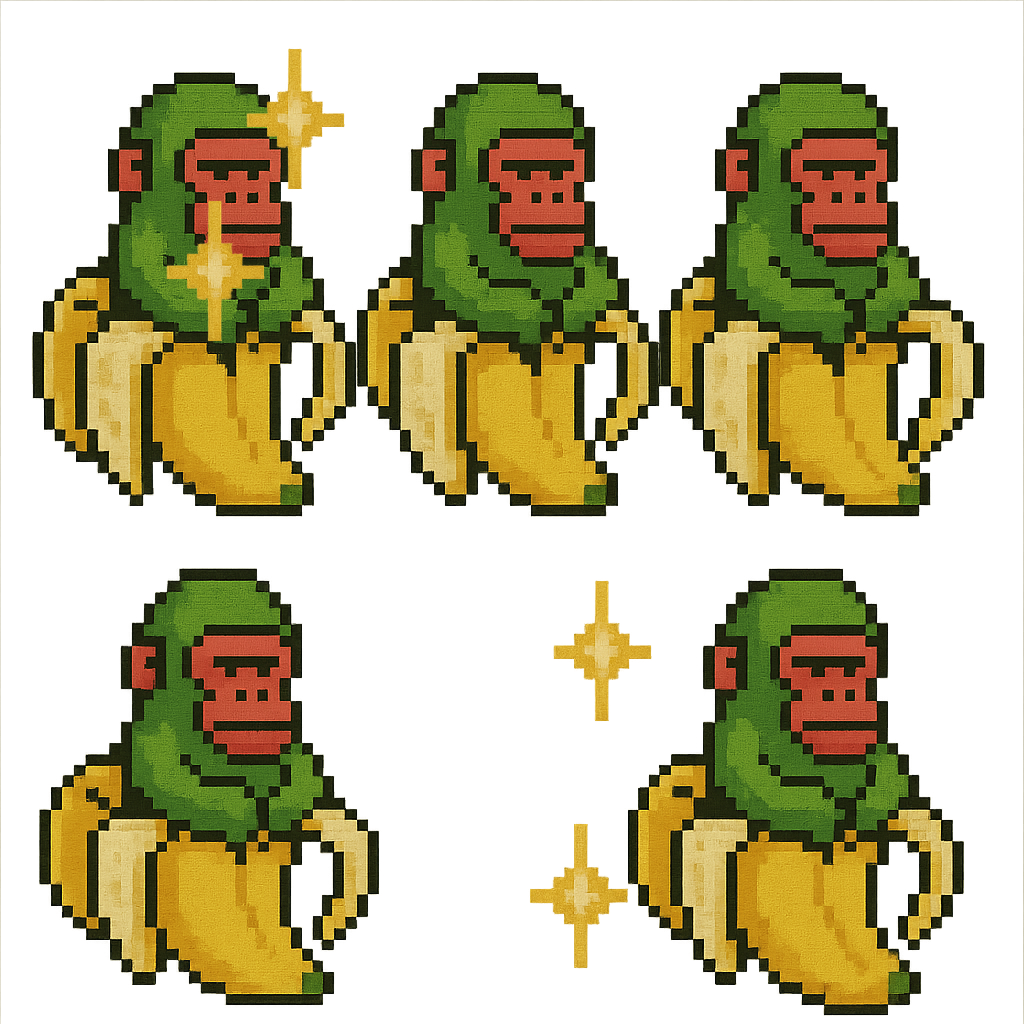
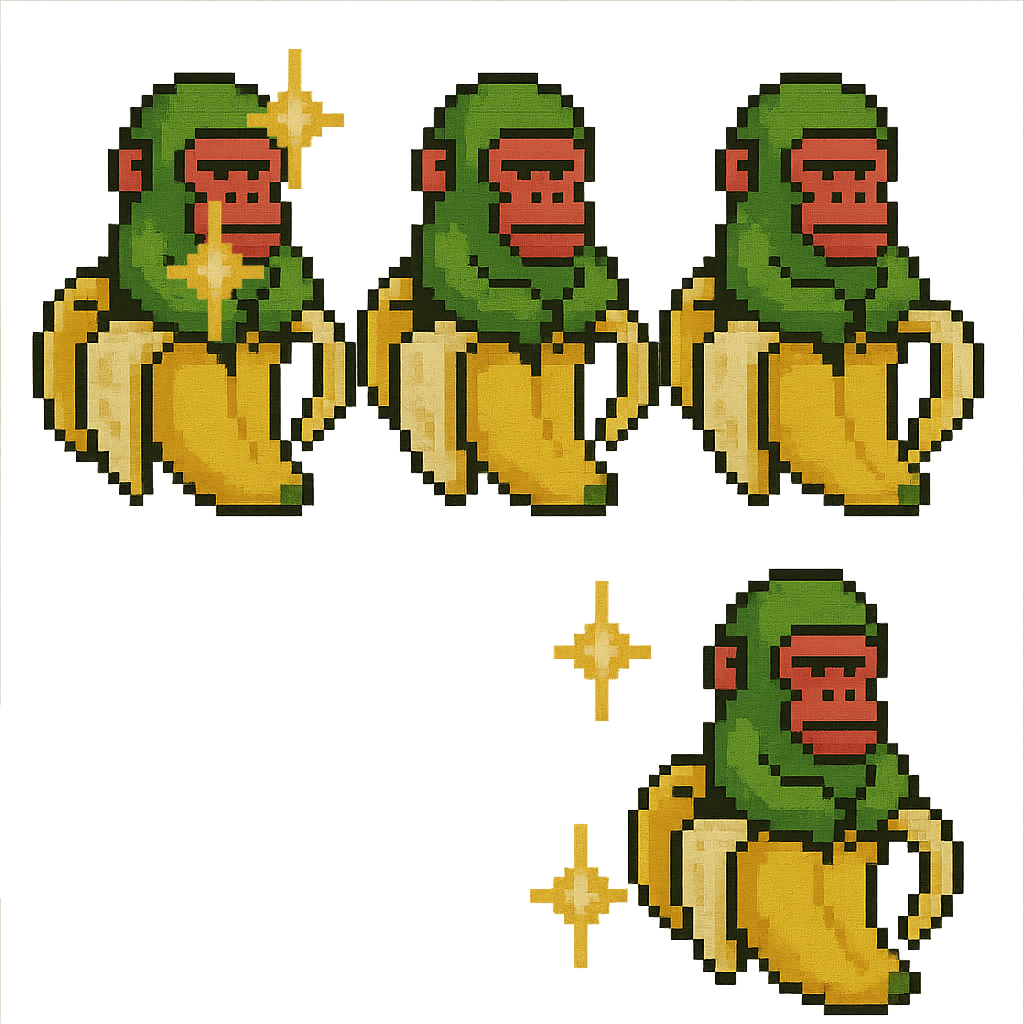
Title Screen Básica Adicionada
Title Screen Básica Adicionada

Changed region(s): [[0.0312, 0.5312, 0.375, 1.0]]

diff --git a/main.c b/main.c
@@ -31,6 +31,8 @@
 #include <time.h>
 #define BASE_WIDTH 1280.0f
 #define BASE_HEIGHT 720.0f
+#define ROWS 5
+#define COLUMNS 9
 
 Vector2 ScaleTo720p(float x, float y, int screenWidth, int screenHeight) {
 	float baseWidth = 1280.0f;
@@ -73,14 +75,14 @@ int main(void)
 	buttonTile = LoadTexture("buttontilemetallic.png");
 	frame = LoadTexture("frame2.png");
 	pointsIcon = LoadTexture("Points.png");
-	const char* nomes[8] = {
+	const char* nomes[5] = {
 		"chimpanzini", "tralalero", "sahur", "lirili",
 		"bombardini", "trippitroppa", "capuccino", "patapim"
 	};
 
 	char path[100];
 	for(int t = 0; t < 8; t++) {
-		for (int i = 0; i < 8; i++) {
+		for (int i = 0; i < 5; i++) {
 			sprintf(path, "Characters/%s%d.png", nomes[i], t);
 			CharacterTextures[i][t] = LoadTexture(path);
 		}
@@ -90,24 +92,20 @@ int main(void)
 	CharacterFrames[2] = LoadTexture("Characters/sahurframe.png");
 	CharacterFrames[3] = LoadTexture("Characters/liriliframe.png");
 	CharacterFrames[4] = LoadTexture("Characters/bombardiniframe.png");
-	CharacterFrames[5] = LoadTexture("Characters/trippitroppaframe.png");
-	CharacterFrames[6] = LoadTexture("Characters/capuccinoframe.png");
-	CharacterFrames[7] = LoadTexture("Characters/patapimframe.png");
+
 
 	Projectile = LoadTexture("Characters/projectile.png");
 	Bomb = LoadTexture("Characters/bomb.png");
 
 
 
-	int Tiles[7][9], Frame[8], CharacterCost[8];
+	int Tiles[ROWS][COLUMNS], Frame[5], CharacterCost[5];
 	CharacterCost[0] = 50;
 	CharacterCost[1] = 100;
 	CharacterCost[2] = 150;
 	CharacterCost[3] = 50;
 	CharacterCost[4] = 25;
-	CharacterCost[5] = 50;
-	CharacterCost[6] = 50;
-	CharacterCost[7] = 50;
+
 	int MousePick = 1, Points = 150, Damage = 10, CharacterHP = 50,
 	    EnemieHP = 110;
 	char PointsT[10], CostChar[10], RandomT[10];
@@ -152,14 +150,14 @@ int main(void)
 		bool ready;
 		bool exists;
 	} Bombardini;
-	Chimpanzini chimpanzini[7][9] = { 0, 0, 0, false, false };
-	Tralalero tralalero[7][9] = { 0, 0, 0, 0, 0, false, false, false };
-	Sahur sahur[7][9] = { 0, 0, false, 0,false, false };
-	Lirili lirili[7][9] = { 0, 0, false,};
-	Bombardini bombardini[7][9] = { 0, 0, 0, 0, 0, false, false, false};
+	Chimpanzini chimpanzini[ROWS][COLUMNS] = { 0, 0, 0, false, false };
+	Tralalero tralalero[ROWS][COLUMNS] = { 0, 0, 0, 0, 0, false, false, false };
+	Sahur sahur[ROWS][COLUMNS] = { 0, 0, false, 0,false, false };
+	Lirili lirili[ROWS][COLUMNS] = { 0, 0, false,};
+	Bombardini bombardini[ROWS][COLUMNS] = { 0, 0, 0, 0, 0, false, false, false};
 
 	int FrameCounterPisc = 0, pisc = 0,FrameCounterIdle = 0;
-	bool PointsBag = false, Randomize = true, piscBool = true;
+	bool PointsBag = false, Randomize = true, piscBool = true, titleScreen = true, gameOver = false;
 	for(int r = 0; r < 7; r++)
 	{
 		for(int c = 0; c < 9; c++)
@@ -181,10 +179,14 @@ int main(void)
 		Frame[f-16] = f;
 
 	}
-
+int baseFontSize = 40;
+		int fontSize = (int)(baseFontSize * ((float)screenHeight / 720.0f));
 	// Main game loop
 	while (!WindowShouldClose())    // Detect window close button or ESC key
 	{
+        Vector2 mouse = GetMousePosition(), Origin = { 0, 0 };
+   
+        
 		FrameCounterIdle++;
 		if (FrameCounterIdle == 3600) {
 			FrameCounterIdle = 0;
@@ -215,20 +217,38 @@ int main(void)
 		// Update
 		//----------------------------------------------------------------------------------
 		// TODO: Update your variables here
+		// TODO: Update your variables here
 		//----------------------------------------------------------------------------------
 
 		// Draw
 		//----------------------------------------------------------------------------------
 		BeginDrawing();
-		Vector2 mouse = GetMousePosition(), Origin = { 0, 0 };
+        ClearBackground(RAYWHITE);
+        if(!gameOver){
+		 if(titleScreen){
+          Rectangle playDest = ScaleRectTo720p( screenWidth/2.5, screenHeight/2, fontSize*5, fontSize, screenWidth, screenHeight);
+		DrawText("Todos vs. Jacques", screenWidth/3, screenHeight/3, fontSize, BLACK);
+	DrawText("Play Game", screenWidth/2.5, screenHeight/2, fontSize, BLACK);
+
+		if (CheckCollisionPointRec(mouse, playDest))
+		{
+
+
+			DrawRectangleRec(playDest, ColorAlpha(YELLOW, 0.3f));
+			SetMouseCursor(MOUSE_CURSOR_POINTING_HAND);
+			if(IsMouseButtonPressed(MOUSE_LEFT_BUTTON)){
+                titleScreen = false;
+                
+            }
+    }
+    }else{
 		int offsetX = 10;
 		int offsetY = 10;
 		Vector2 textPoints = ScaleTo720p(110, 50, screenWidth, screenHeight);
 		float spacing = 10;
 		float projectileSpeed = 400.0f;
 		float bombSpeed = 1200.0f;
-		int baseFontSize = 40;
-		int fontSize = (int)(baseFontSize * ((float)screenHeight / 720.0f));
+		
 
 		sprintf(PointsT, "%d", Points);
 
@@ -269,8 +289,8 @@ int main(void)
 		}
 
 		DrawTexturePro(pointsIcon, pointsCountSource, pointsCountDest, Origin, 0.0f, WHITE);
-		ClearBackground(RAYWHITE);
-		for (int f = 0; f < 8; f++) {
+		
+		for (int f = 0; f < 5; f++) {
 			Vector2 textValue = ScaleTo720p(310 + (f * 77), 117, screenWidth, screenHeight);
 
 			Rectangle frameDest = ScaleRectTo720p(300 + (f * 77), 20, 78, 96, screenWidth, screenHeight);
@@ -302,11 +322,11 @@ int main(void)
 		}
 
 
-		for (int r = 0; r < 7; r++)
+		for (int r = 0; r < ROWS; r++)
 		{
-			for (int c = 0; c < 9; c++)
+			for (int c = 0; c < COLUMNS; c++)
 			{
-				Rectangle tileDest = ScaleRectTo720p(60 + (c * 96), 160 + (r * 78), 96, 78, screenWidth, screenHeight);
+				Rectangle tileDest = ScaleRectTo720p(60 + (c * 96), 220 + (r * 78), 96, 78, screenWidth, screenHeight);
 				Rectangle tileSource = { 0, 0, buttonTile.width, buttonTile.height };
 
 				if(chimpanzini[r][c].hp <= 0 && chimpanzini[r][c].exists == true) {
@@ -414,29 +434,29 @@ int main(void)
 					DrawTexturePro(metallicTile, tileSource, tileDest, Origin, 0.0f, WHITE);
 					break;
 				case 16:
-					Rectangle chimpanziniDest = ScaleRectTo720p(80 + (c * 96), 160 + (r * 78) - 10, 323/5, 543/5, screenWidth, screenHeight);
+					Rectangle chimpanziniDest = ScaleRectTo720p(80 + (c * 96), 220 + (r * 78) - 10, 323/5, 543/5, screenWidth, screenHeight);
 					DrawTexturePro(metallicTile, tileSource, tileDest, Origin, 0.0f, WHITE);
 					DrawTexturePro(CharacterTextures[0][chimpanzini[r][c].idle], chimpanziniSource, chimpanziniDest, Origin, 0.0f, WHITE);
 					break;
 				case 17:
-					Rectangle tralaleroDest = ScaleRectTo720p(80 + (c * 96)-20, 160 + (r * 78), 186/2, 144/2, screenWidth, screenHeight);
+					Rectangle tralaleroDest = ScaleRectTo720p(80 + (c * 96)-20, 220 + (r * 78), 186/2, 144/2, screenWidth, screenHeight);
 					DrawTexturePro(metallicTile, tileSource, tileDest, Origin, 0.0f, WHITE);
 					DrawTexturePro(CharacterTextures[1][tralalero[r][c].idle], tralaleroSource, tralaleroDest, Origin, 0.0f, WHITE);
 					break;
 				case 18:
-					Rectangle sahurDest = ScaleRectTo720p(80 + (c * 96), 160 + (r * 78) - 10, 122/2.5, 244/2.5, screenWidth, screenHeight);
+					Rectangle sahurDest = ScaleRectTo720p(80 + (c * 96), 220 + (r * 78) - 10, 122/2.5, 244/2.5, screenWidth, screenHeight);
 					DrawTexturePro(metallicTile, tileSource, tileDest, Origin, 0.0f, WHITE);
 					DrawTexturePro(CharacterTextures[2][sahur[r][c].idle], sahurSource, sahurDest, Origin, 0.0f, WHITE);
 					break;
 
 				case 19:
-					Rectangle liriliDest = ScaleRectTo720p(80 + (c * 96), 160 + (r * 78) - 10, 190/2.5, 225/2.5, screenWidth, screenHeight);
+					Rectangle liriliDest = ScaleRectTo720p(80 + (c * 96), 220 + (r * 78) - 10, 190/2.5, 225/2.5, screenWidth, screenHeight);
 					DrawTexturePro(metallicTile, tileSource, tileDest, Origin, 0.0f, WHITE);
 					DrawTexturePro(CharacterTextures[3][lirili[r][c].idle], liriliSource, liriliDest, Origin, 0.0f, WHITE);
 					break;
 
 				case 20:
-					Rectangle bombardiniDest = ScaleRectTo720p(80 + (c * 96)-2, 160 + (r * 78) + 9, 620/10, 610/10, screenWidth, screenHeight);
+					Rectangle bombardiniDest = ScaleRectTo720p(80 + (c * 96)-2, 220 + (r * 78) + 9, 620/10, 610/10, screenWidth, screenHeight);
 					DrawTexturePro(metallicTile, tileSource, tileDest, Origin, 0.0f, WHITE);
 					DrawTexturePro(CharacterTextures[4][bombardini[r][c].idle], bombardiniSource, bombardiniDest, Origin, 0.0f, WHITE);
 					break;
@@ -479,7 +499,7 @@ int main(void)
 									tralalero[r][c].idle = 0;
 									tralalero[r][c].loop = 0;
 									tralalero[r][c].projecX = 80 + (c * 96)+35;
-									tralalero[r][c].projecY = 160 + (r * 78);
+									tralalero[r][c].projecY = 220 + (r * 78);
 									tralalero[r][c].projecB = false;
 									tralalero[r][c].attacking = false;
 									tralalero[r][c].exists = true;
@@ -554,9 +574,9 @@ int main(void)
 
 		}
 
-		for (int r = 0; r < 7; r++)
+		for (int r = 0; r < ROWS; r++)
 		{
-			for (int c = 0; c < 9; c++)
+			for (int c = 0; c < COLUMNS; c++)
 			{
 				if (tralalero[r][c].projecB == true)
 				{
@@ -639,7 +659,8 @@ int main(void)
 
 
 
-
+        }
+        }
 		EndDrawing();
 		//----------------------------------------------------------------------------------
 	}
